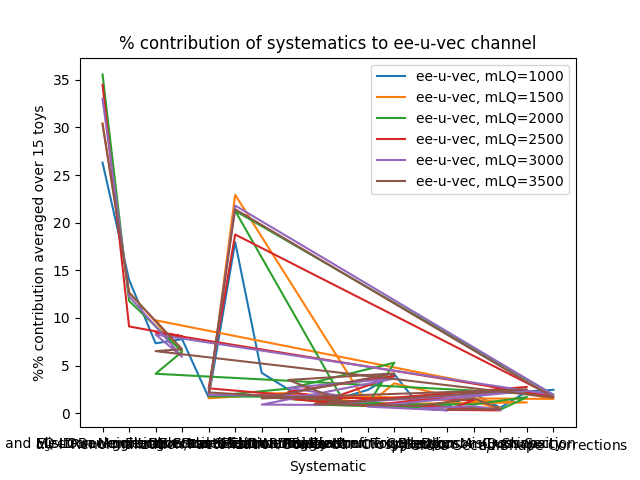
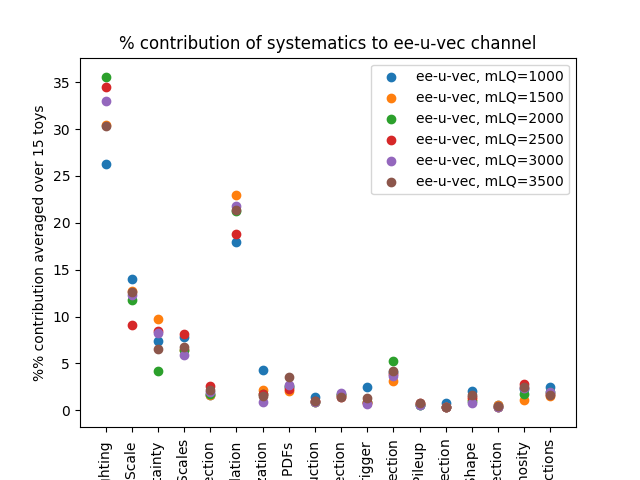
updating figures

diff --git a/analyze/combine/AFB_fits/scripts/LQ_check_sys_uncs.py b/analyze/combine/AFB_fits/scripts/LQ_check_sys_uncs.py
@@ -67,11 +67,12 @@ if options.hadd:
 					#print(df_all.loc[df_all['Sys name'].str.contains("LQ")])
 					print(df_all[['Sys name','Mean']])						
 					df_all.to_csv("sys_uncs/%s_%s_m%s_sys_uncs_%s_alltoys.txt"%(chan, q, options.mLQ, ending),sep=' ',index=False)
-					plt.plot(df_all['Sys name'],df_all['Mean'], label="%s-%s%s, mLQ=%i"%(chan,q,("-vec" if is_vec else ""),options.mLQ))
+					plt.scatter(df_all['Sys name'],df_all['Mean'], label="%s-%s%s, mLQ=%i"%(chan,q,("-vec" if is_vec else ""),options.mLQ))
 				plt.legend()
 				plt.title("%% contribution of systematics to %s-%s%s channel"%(chan,q,("-vec" if is_vec else "")))
 				plt.xlabel("Systematic")
 				plt.ylabel("%% contribution averaged over 15 toys")
+				plt.xticks(rotation=90)
 				plt.savefig("sys_uncs/%s_%s_sys_uncs_%s_allmLQ.png"%(chan, q, ending))
 				plt.close()
 					
